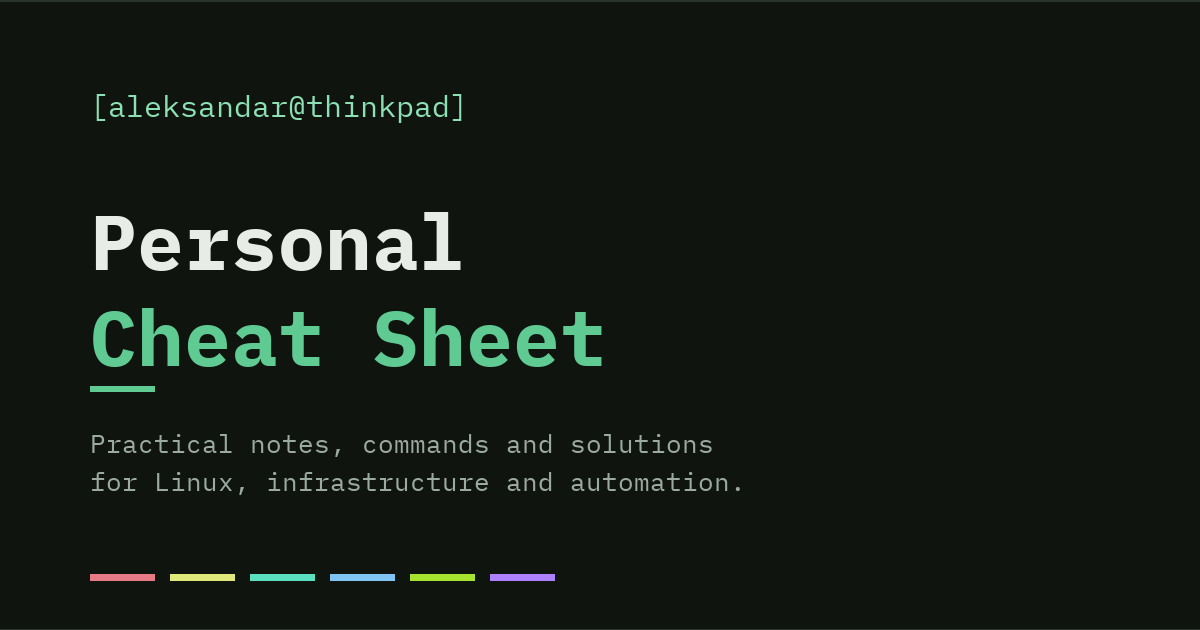
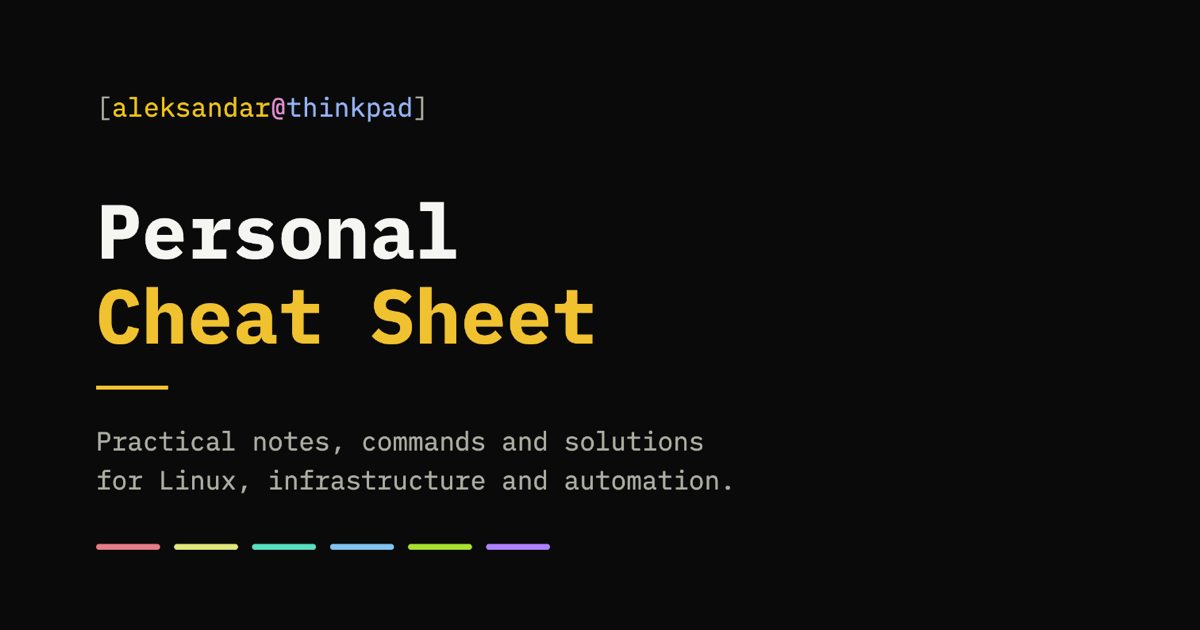
Update social preview image to match the black/gold theme
default.png still had the original green theme's colors from when it
was first added - regenerated it to match the current site look, and
added a ?v=2 cache-buster so social crawlers (X, LinkedIn, etc.), which
cache link previews per exact URL, pick up the new version.

diff --git a/layouts/partials/social-meta.html b/layouts/partials/social-meta.html
@@ -26,7 +26,11 @@
   {{ $description = .Site.Params.description }}
 {{ end }}
 
-{{ $image := "images/social/default.png" | absURL }}
+{{/* ?v=N cache-busts this at social crawlers (X, LinkedIn, etc.) - they
+     cache link previews per exact URL, often for longer than any HTTP
+     cache header, so bump this whenever default.png's content changes or
+     already-shared links can keep showing a stale card indefinitely. */}}
+{{ $image := "images/social/default.png?v=2" | absURL }}
 {{ with .Params.image }}
   {{ $image = . | absURL }}
 {{ end }}
